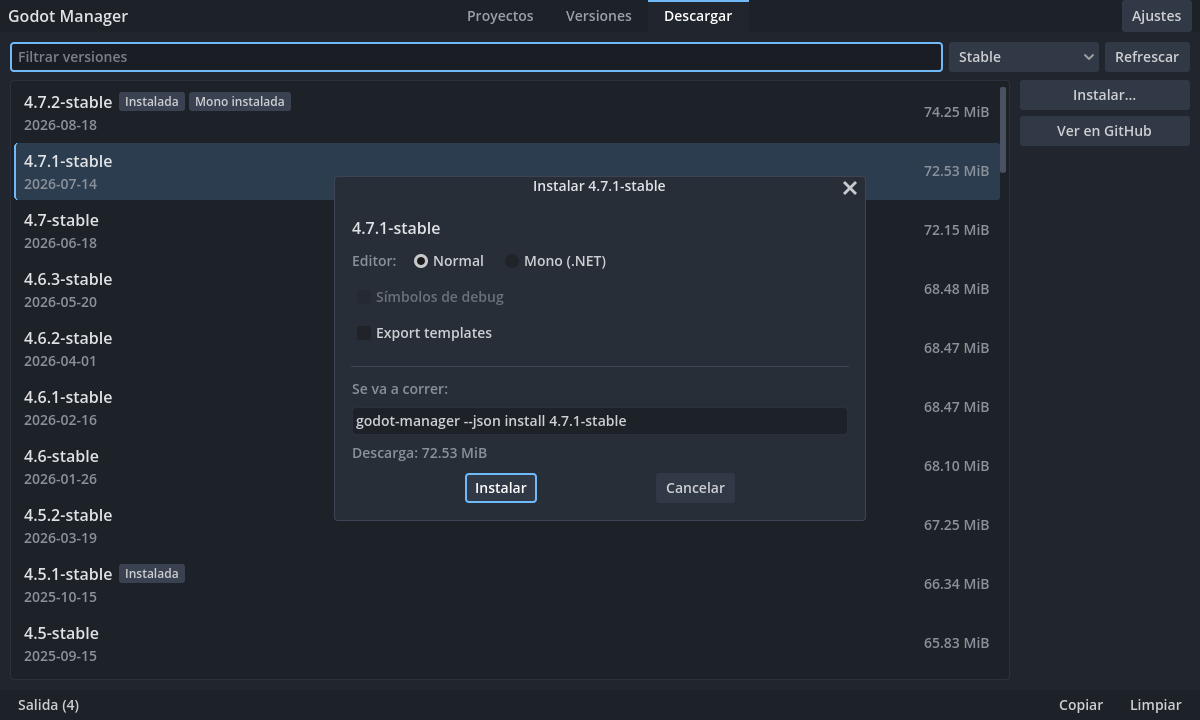
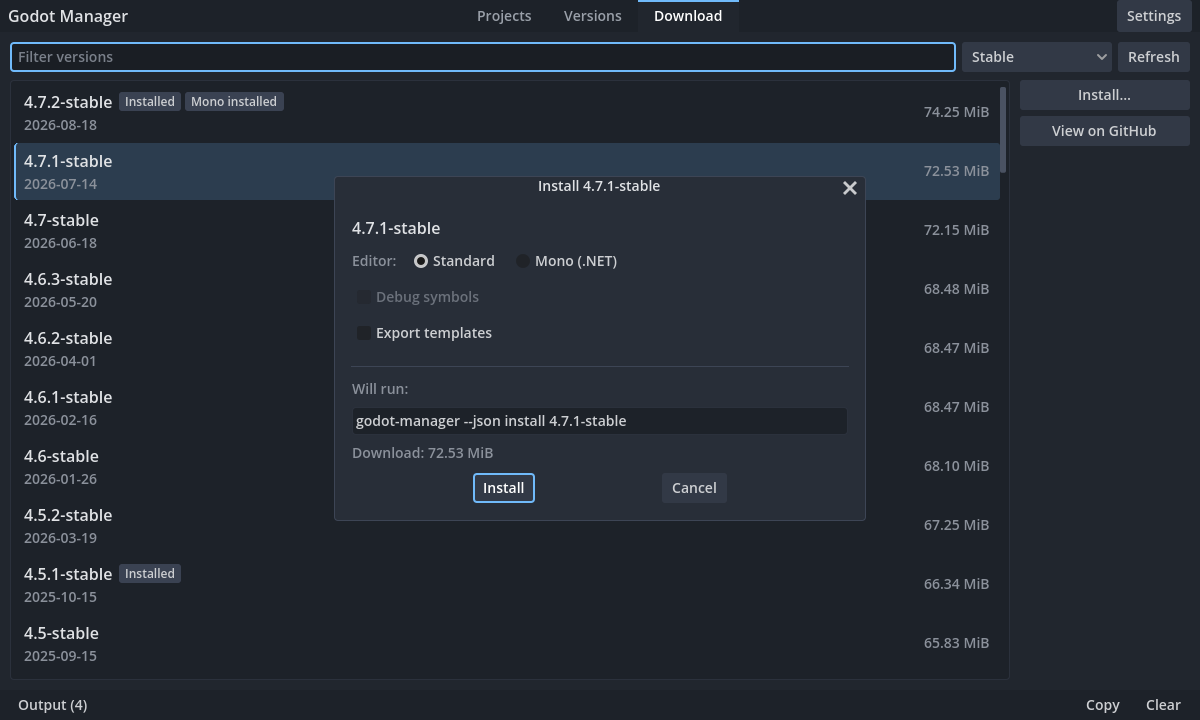
README: capturas en ingles para la version en ingles

diff --git a/README.es.md b/README.es.md
@@ -9,7 +9,7 @@ Tiene dos partes:
 - **`godot-manager`**: una herramienta de línea de comandos escrita en Go, con un `godot` que corre la versión que pide el proyecto actual.
 - **Una interfaz gráfica opcional** parecida al Project Manager de Godot. Es un proyecto de Godot en [`ui/`](ui/) y hace todo a través de la salida `--json` del CLI.
 
-![Proyectos](docs/screenshots/projects.png)
+![Proyectos](docs/screenshots/projects.es.png)
 
 ## Qué hace
 
@@ -25,11 +25,11 @@ Tiene dos partes:
 
 | Versiones instaladas | Releases disponibles |
 |---|---|
-| ![Versiones instaladas](docs/screenshots/installed.png) | ![Releases disponibles](docs/screenshots/download.png) |
+| ![Versiones instaladas](docs/screenshots/installed.es.png) | ![Releases disponibles](docs/screenshots/download.es.png) |
 
-![Diálogo de instalación](docs/screenshots/install-dialog.png)
+![Diálogo de instalación](docs/screenshots/install-dialog.es.png)
 
-Por ahora la interfaz está solo en español.
+La interfaz está en español y en inglés: usa español si el sistema está en español, e inglés en cualquier otro caso.
 
 ## Instalación
 
@@ -117,4 +117,4 @@ go test ./...                    # tests del CLI
 godot --headless --path ui -s res://tests/run_tests.gd   # tests de la interfaz
 ```
 
-El tablero de tareas de la interfaz está en `ui/compass` (formato Scope Compass).
+Las traducciones de la interfaz están en `ui/i18n/en.po`; los textos fuente están en español. El tablero de tareas de la interfaz está en `ui/compass` (formato Scope Compass).

diff --git a/README.md b/README.md
@@ -29,7 +29,7 @@ It has two parts:
 
 ![Install dialog](docs/screenshots/install-dialog.png)
 
-The GUI is currently in Spanish only.
+The GUI is in English and Spanish. It uses Spanish when the system language is Spanish, and English otherwise.
 
 ## Installation
 
@@ -117,4 +117,4 @@ go test ./...                    # CLI tests
 godot --headless --path ui -s res://tests/run_tests.gd   # GUI tests
 ```
 
-The GUI's task board is in `ui/compass` (Scope Compass format).
+The GUI's translations are in `ui/i18n/en.po`; the source strings are in Spanish. The GUI's task board is in `ui/compass` (Scope Compass format).
